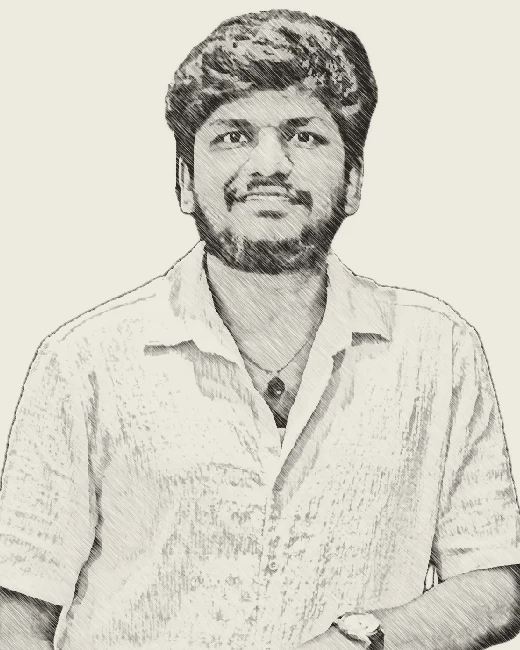
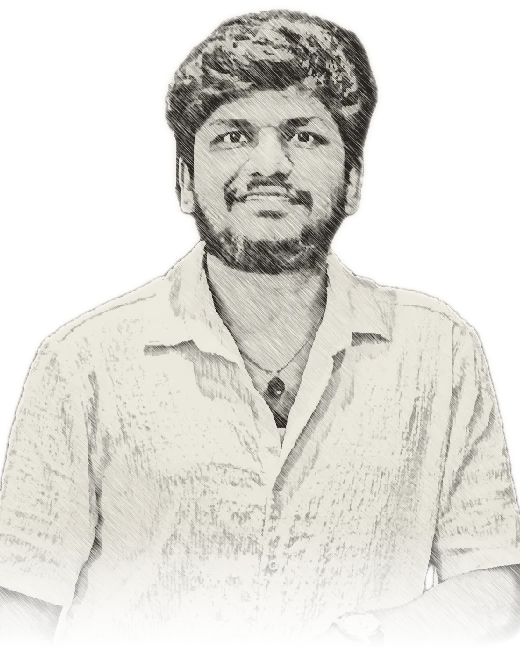
feat(site): the real Cataholic cat; a dimmer sketch that sits in the night
The hand-drawn cat is replaced by Cataholic's own Snow, rendered from the app's
SwiftUI drawing code (all eight coats, sitting and napping, transparent, 4x).
Pet him and he naps, then wakes up in the next coat. The pencil sketch now
blends into the background: cut out of the paper, dimmed to 60%, and no
star frame (it read like a memorial poster). Share image updated to match.

diff --git a/index.html b/index.html
@@ -55,13 +55,7 @@
   .pills { display: flex; flex-wrap: wrap; gap: 10px; margin-top: 34px }
   .me-photo { position: relative }
   .portrait { width: clamp(240px, 25vw, 340px); aspect-ratio: 4 / 5 }
-  .portrait img { width: 100%; height: 100%; display: block; border-radius: 3px }
-  /* the pencil sketch, framed by four stars, with where I am */
-  .frame { position: absolute; inset: -18px; border: 1px solid rgba(242,239,232,.12); border-radius: 10px; pointer-events: none }
-  .frame i { position: absolute; width: 6px; height: 6px; border-radius: 50%; background: var(--ink); box-shadow: 0 0 12px 3px rgba(255,246,230,.5) }
-  .frame i:nth-child(1) { left: -3px; top: -3px } .frame i:nth-child(2) { right: -3px; top: -3px }
-  .frame i:nth-child(3) { right: -3px; bottom: -3px } .frame i:nth-child(4) { left: -3px; bottom: -3px }
-  .frame span { position: absolute; right: 0; bottom: -30px; color: var(--faint); font-size: 12px; letter-spacing: .06em }
+  .portrait img { width: 100%; height: 100%; display: block; filter: brightness(.6) contrast(1.05) }
 
   main { position: relative; z-index: 2 }
 
@@ -114,13 +108,9 @@
   .art .packet { fill: #ffe9c9; filter: drop-shadow(0 0 3px rgba(255,233,201,.9)) }
   #changes { aspect-ratio: 520 / 300 }
 
-  /* the cat: sits still until you pet it */
-  .cat { display: block; margin: 0 auto; width: min(100%, 300px); padding: 0; background: none; border: 0; cursor: pointer; position: relative; color: inherit; font: inherit }
-  .cat svg { width: 100%; height: auto; display: block; overflow: visible }
-  .cat .shut { display: none }
-  .cat.purr .open { display: none } .cat.purr .shut { display: inline }
-  .cat.purr svg { animation: purr .12s linear 10 }
-  @keyframes purr { 25% { transform: rotate(-1.2deg) } 75% { transform: rotate(1.2deg) } }
+  /* the cat: Cataholic's own Snow. Sits still until you pet him; then he naps and wakes up in the next coat */
+  .cat { display: block; margin: 0 auto; width: min(100%, 240px); padding: 0; background: none; border: 0; cursor: pointer; position: relative; color: inherit; font: inherit }
+  .cat img { width: 100%; height: auto; display: block; filter: brightness(.88) }
   .cat .say { position: absolute; left: 62%; top: 4%; font-family: var(--serif); font-style: italic; font-size: 22px; color: var(--ink); opacity: 0; pointer-events: none }
   .cat.purr .say { animation: say 1.4s ease-out }
   @keyframes say { 0% { opacity: 0; transform: translateY(6px) } 20% { opacity: 1 } 100% { opacity: 0; transform: translateY(-26px) } }
@@ -147,7 +137,7 @@
   .end h2 { margin-top: 16px; font-family: var(--serif); font-size: clamp(56px, 7vw, 104px); font-weight: 400; letter-spacing: -.02em; line-height: 1.02 }
   .end h2 em { font-style: italic }
   .end p { margin: 18px auto 0; color: var(--dim); font-size: 18px; max-width: 46ch; text-wrap: pretty }
-  .end p.aside { margin-top: 10px; font-size: 15px; color: var(--faint) }
+  .end p.aside { margin-top: 10px; font-size: 15px; color: var(--faint); text-wrap: balance }
   .end .pills { justify-content: center; margin-top: 32px }
   .end .links { display: flex; flex-wrap: wrap; gap: 14px 26px; justify-content: center; margin-top: 26px; color: var(--dim); font-size: 14px; font-weight: 400 }
   .end .links a:hover { color: var(--ink) }
@@ -155,14 +145,13 @@
 
   @media (prefers-reduced-motion: reduce) {
     .art .ln, .art .st, .art .ha, .art .tx, .art .flow, .path svg path, .path li { transition: none }
-    .cat.purr svg { animation: none }
+    .cat.purr .say { animation: none }
   }
   @media (max-width: 820px) {
     .intro { grid-template-columns: minmax(0, 1fr); gap: 0; padding: 104px 20px 56px }
     .me-photo { order: -1; margin: 10px 0 30px 10px; justify-self: start }
     .portrait { width: 128px }
-    .frame { inset: -10px } .frame span { display: none }
-    .intro h1 { margin-top: 12px }
+      .intro h1 { margin-top: 12px }
     .intro .lede { margin-top: 20px }
     .sec { padding: 88px 20px }
     .sec.split { grid-template-columns: minmax(0, 1fr); gap: 40px }
@@ -204,7 +193,6 @@
     </div>
     <div class="me-photo">
       <div class="portrait"><img src="assets/me-sketch.webp" width="520" height="650" alt="A pencil sketch of Manideep GNS"></div>
-      <div class="frame" aria-hidden="true"><i></i><i></i><i></i><i></i><span>12.97° N, 77.59° E</span></div>
     </div>
   </div>
 </section>
@@ -285,23 +273,7 @@
     </div>
     <figure class="art">
       <button class="cat" type="button" aria-label="Pet the cat">
-        <svg viewBox="0 0 220 190" aria-hidden="true">
-          <path d="M160 160 C205 160 214 108 186 96" fill="none" stroke="#9a8f7f" stroke-width="15" stroke-linecap="round"/>
-          <ellipse cx="108" cy="140" rx="66" ry="44" fill="#c4b9a8"/>
-          <ellipse cx="108" cy="150" rx="34" ry="26" fill="#f2efe8"/>
-          <path d="M72 58 L76 18 L102 42 Z M144 58 L140 18 L114 42 Z" fill="#c4b9a8"/>
-          <path d="M79 48 L81 30 L95 42 Z M137 48 L135 30 L121 42 Z" fill="#7d7264"/>
-          <circle cx="108" cy="78" r="44" fill="#c4b9a8"/>
-          <path d="M100 40 L102 52 M108 38 L108 52 M116 40 L114 52" stroke="#7d7264" stroke-width="4" stroke-linecap="round"/>
-          <g class="open" fill="#17161a"><ellipse cx="91" cy="78" rx="5" ry="6"/><ellipse cx="125" cy="78" rx="5" ry="6"/></g>
-          <g class="shut" fill="none" stroke="#17161a" stroke-width="3" stroke-linecap="round"><path d="M85 79 Q91 73 97 79"/><path d="M119 79 Q125 73 131 79"/></g>
-          <path d="M104 90 L112 90 L108 95 Z" fill="#3e3934"/>
-          <path d="M108 95 Q104 101 99 99 M108 95 Q112 101 117 99" fill="none" stroke="#17161a" stroke-width="2" stroke-linecap="round"/>
-          <path d="M70 88 L50 85 M70 94 L50 97 M146 88 L166 85 M146 94 L166 97" stroke="#f2efe8" stroke-width="1.5" stroke-linecap="round" opacity=".7"/>
-          <path d="M78 116 Q108 126 138 116" fill="none" stroke="#3e3934" stroke-width="5" stroke-linecap="round"/>
-          <path d="M108 122 C102 116 96 124 108 132 C120 124 114 116 108 122 Z" fill="#ffe9c9" style="filter:drop-shadow(0 0 4px rgba(255,233,201,.9))"/>
-          <ellipse cx="86" cy="178" rx="16" ry="9" fill="#f2efe8"/><ellipse cx="130" cy="178" rx="16" ry="9" fill="#f2efe8"/>
-        </svg>
+        <img src="assets/cats/snow-sit.webp" width="368" height="496" alt="Snow, one of Cataholic's eight cats">
         <span class="say" aria-hidden="true">prrr</span>
       </button>
       <figcaption class="cat-cap">Go on, give him a pat.</figcaption>
@@ -416,9 +388,17 @@ function drawChanges(animate) {
   step(); dotsDrawn = true
 }
 
-// the cat: still until petted; a pet closes his eyes and he purrs
-const cat = document.querySelector('.cat')
-cat.addEventListener('click', () => { cat.classList.remove('purr'); void cat.offsetWidth; cat.classList.add('purr') })
+// the cat: still until petted; a pet sends him to sleep, and he wakes up in the next of Cataholic's eight coats
+const cat = document.querySelector('.cat'), catImg = cat.querySelector('img')
+const COATS = ['snow', 'smokey', 'tux', 'patches', 'butter', 'ginger', 'cocoa', 'lilac'], coatSrc = (c, pose) => `assets/cats/${c}-${pose}.webp`
+let coat = 0, napping = false
+cat.addEventListener('pointerenter', () => COATS.forEach(c => { new Image().src = coatSrc(c, 'sit'); new Image().src = coatSrc(c, 'nap') }), { once: true })
+cat.addEventListener('click', () => {
+  if (napping) return
+  napping = true; catImg.src = coatSrc(COATS[coat], 'nap')
+  cat.classList.remove('purr'); void cat.offsetWidth; cat.classList.add('purr')
+  setTimeout(() => { coat = (coat + 1) % COATS.length; catImg.src = coatSrc(COATS[coat], 'sit'); napping = false }, 1600)
+})
 cat.addEventListener('animationend', e => { if (e.animationName === 'say') cat.classList.remove('purr') })
 
 drawDust(); drawArt()
